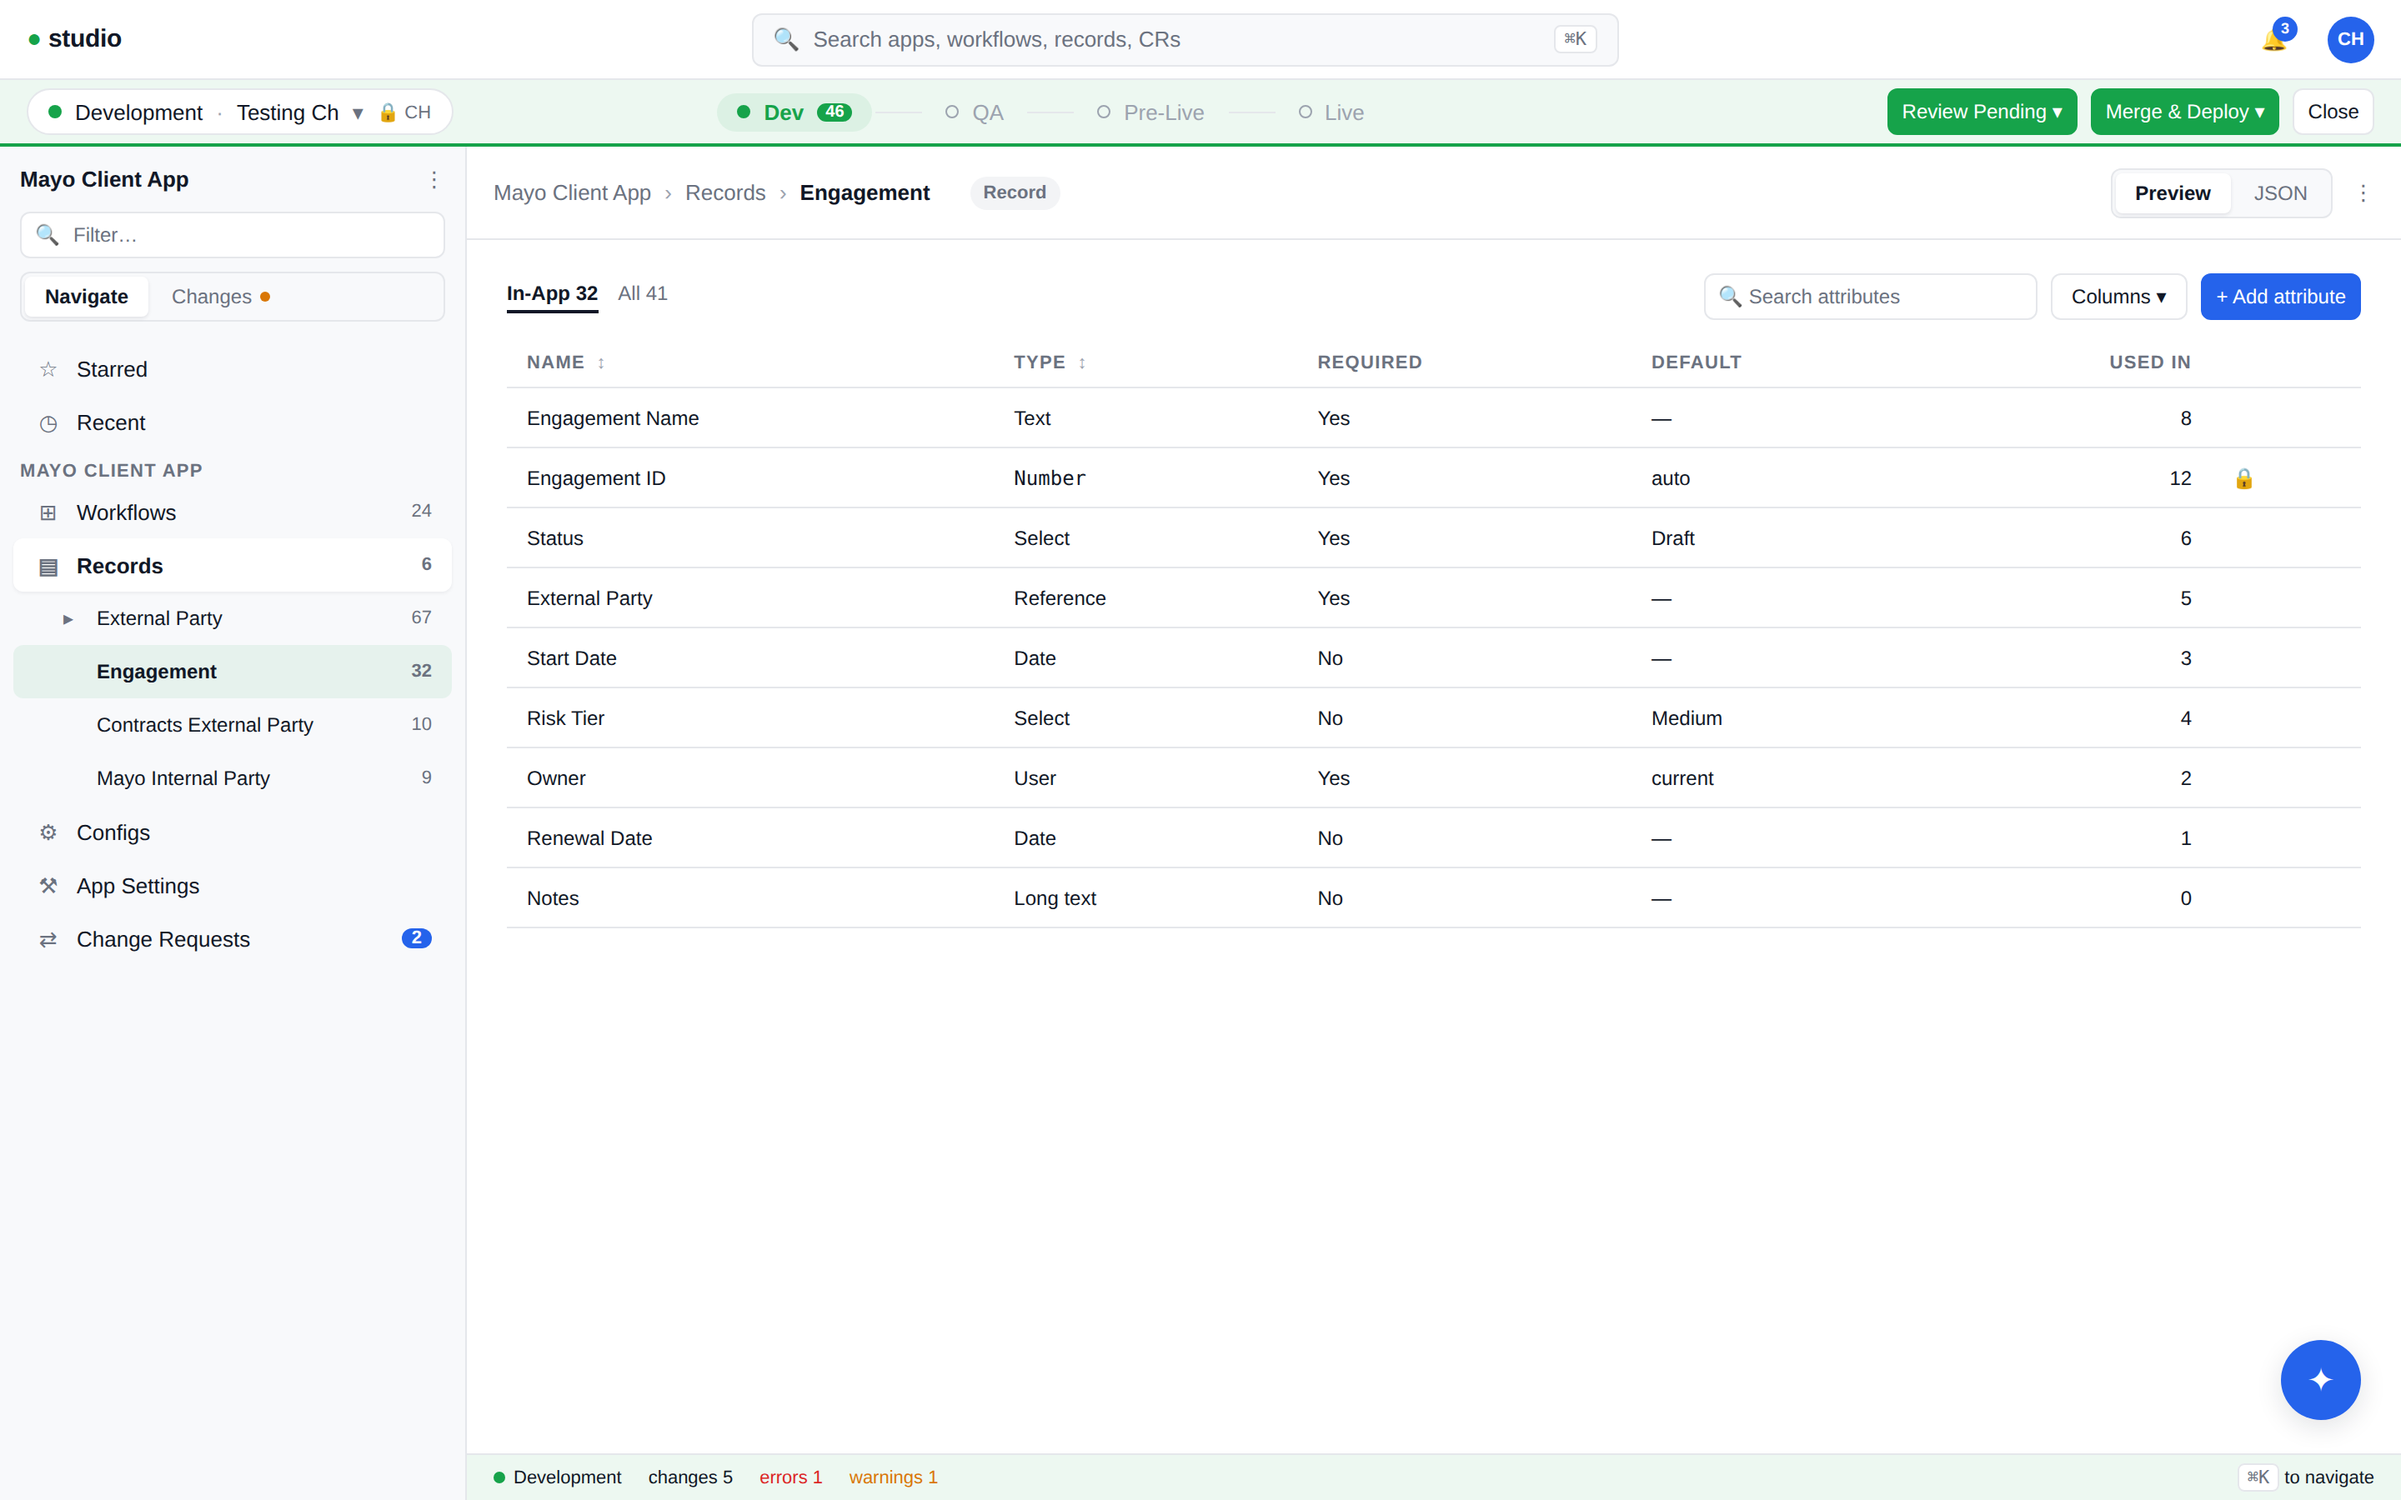
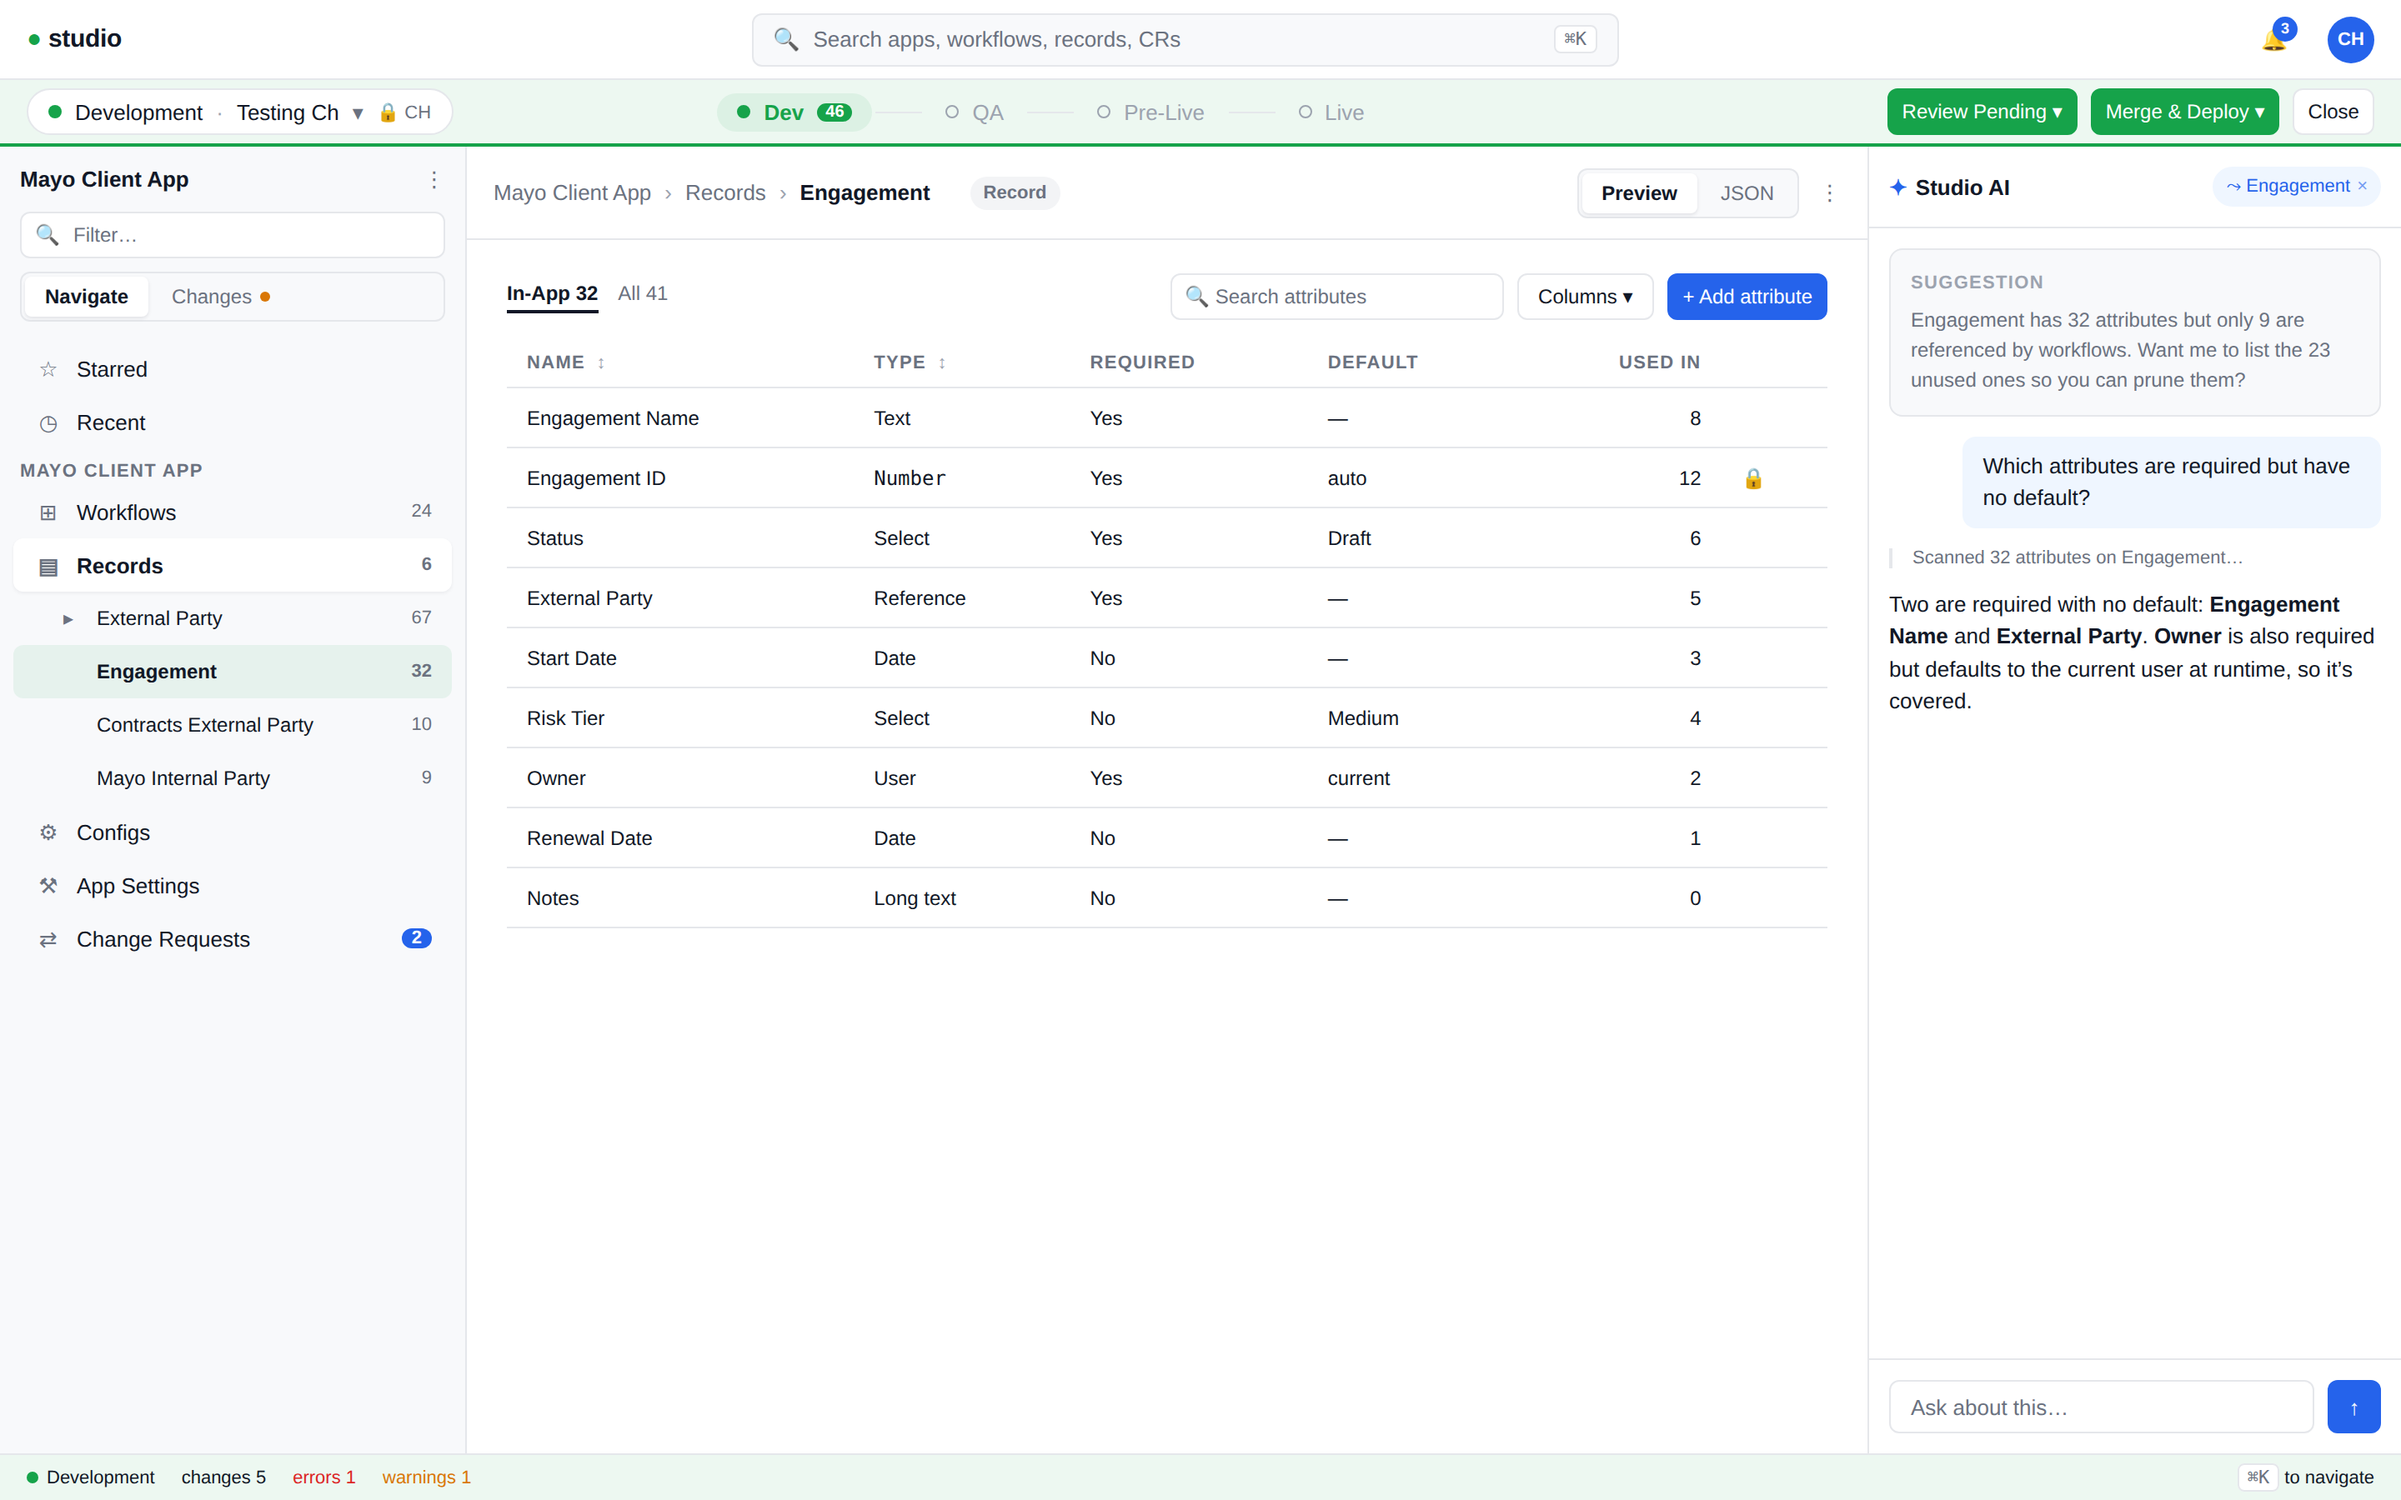
Frames 2 & 3: add persistent Studio AI panel (320px, always-on); status bar full-width

diff --git a/viz/kit.css b/viz/kit.css
@@ -385,6 +385,42 @@ body {
 .ai-input { display: flex; align-items: center; gap: var(--sp-2); padding: var(--sp-3); border-top: 1px solid var(--border); }
 .ai-input .field { flex: 1; height: var(--control-h); border: 1px solid var(--border); border-radius: var(--radius-control); padding: 0 var(--sp-3); display: flex; align-items: center; color: var(--muted); font-size: var(--fs-body); }
 
+/* ---- Persistent AI panel (always-visible variant, no close button) -------- */
+.ai-panel {
+  width: var(--ai-panel-w); min-width: var(--ai-panel-w); background: var(--surface);
+  border-left: 1px solid var(--border); display: flex; flex-direction: column; min-height: 0;
+}
+.ai-panel .aip-head {
+  display: flex; align-items: center; gap: var(--sp-2); padding: var(--sp-3);
+  border-bottom: 1px solid var(--border);
+}
+.ai-panel .aip-title { font-weight: 600; font-size: var(--fs-body); display: flex; align-items: center; gap: 5px; }
+.ai-panel .aip-title .spark { color: var(--blue); }
+.ai-panel .aip-mode { margin-left: auto; }
+.ai-panel .aip-ctx { padding: var(--sp-3) var(--sp-3) 0; }
+.ai-panel .aip-stream { flex: 1; padding: var(--sp-3); display: flex; flex-direction: column; gap: var(--sp-3); overflow: hidden; }
+.ai-panel .aip-suggest {
+  font-size: var(--fs-table); color: var(--muted); line-height: 1.5;
+  background: var(--rail); border: 1px solid var(--border); border-radius: var(--radius-card);
+  padding: var(--sp-3);
+}
+.ai-panel .aip-suggest .lead { color: var(--text-faint); text-transform: uppercase; letter-spacing: var(--track-section); font-size: var(--fs-section); font-weight: var(--fw-section); display: block; margin-bottom: 4px; }
+.ai-panel .aip-msg { font-size: var(--fs-body); line-height: 1.5; }
+.ai-panel .aip-msg.user { align-self: flex-end; background: var(--blue-bg); color: var(--text); padding: var(--sp-2) var(--sp-3); border-radius: var(--radius-card); max-width: 85%; }
+.ai-panel .aip-thought { font-size: var(--fs-meta); color: var(--muted); border-left: 2px solid var(--border); padding-left: var(--sp-3); }
+.ai-panel .aip-input {
+  display: flex; align-items: center; gap: var(--sp-2); padding: var(--sp-3);
+  border-top: 1px solid var(--border);
+}
+.ai-panel .aip-field {
+  flex: 1; height: var(--control-h); border: 1px solid var(--border); border-radius: var(--radius-control);
+  padding: 0 var(--sp-3); display: flex; align-items: center; color: var(--muted); font-size: var(--fs-body);
+}
+.ai-panel .aip-send {
+  width: var(--control-h); height: var(--control-h); border-radius: var(--radius-control);
+  background: var(--blue); color: #fff; display: flex; align-items: center; justify-content: center;
+}
+
 /* ---- Layout row used by interior frames ----------------------------------- */
 .work-row { flex: 1; display: flex; min-height: 0; }
 .canvas { flex: 1; display: flex; flex-direction: column; min-width: 0; background: var(--surface); }

diff --git a/viz/03-workflow-builder.html b/viz/03-workflow-builder.html
@@ -213,19 +213,39 @@
         </div>
       </div>
 
-      <!-- ZONE 7 — Status bar -->
-      <div class="status-bar">
-        <span class="sdot"><span class="d"></span> Development</span>
-        <span>changes 5</span>
-        <span style="color:var(--red)">errors 1</span>
-        <span style="color:var(--amber)">warnings 1</span>
-        <span class="right"><span class="kbd">⌘K</span> to navigate</span>
-      </div>
     </div>
+
+    <!-- ZONE 6 — persistent AI panel (always visible, no close) -->
+    <aside class="ai-panel">
+      <div class="aip-head">
+        <span class="aip-title"><span class="spark">✦</span> Studio AI</span>
+        <span class="ctx-chip" style="margin-left:auto">⤳ Subcontractor Details · Step 1 of 4 <span class="x">×</span></span>
+      </div>
+      <div class="aip-stream">
+        <div class="aip-suggest">
+          <span class="lead">Suggestion</span>
+          This step collects a Tax ID / EIN but has no format validation. Want me to add a rule requiring <b>NN-NNNNNNN</b> before the step can submit?
+        </div>
+        <div class="aip-msg user">Make the Email field required and validate the format.</div>
+        <div class="aip-thought">Editing Step 1 · Subcontractor Details…</div>
+        <div class="aip-msg">Done — added a <b>required</b> + <b>email-format</b> rule to the Email field on Step 1. Created a checkpoint so you can revert.</div>
+        <div class="checkpoint">◦ 02:47 PM Checkpoint created <span class="revert">↩ Revert</span></div>
+      </div>
+      <div class="aip-input">
+        <span class="aip-field">Ask about this…</span>
+        <span class="aip-send">↑</span>
+      </div>
+    </aside>
   </div>
 
-  <!-- ZONE 6 — AI summon affordance -->
-  <div class="fab">✦</div>
+  <!-- ZONE 7 — Status bar (full width) -->
+  <div class="status-bar">
+    <span class="sdot"><span class="d"></span> Development</span>
+    <span>changes 5</span>
+    <span style="color:var(--red)">errors 1</span>
+    <span style="color:var(--amber)">warnings 1</span>
+    <span class="right"><span class="kbd">⌘K</span> to navigate</span>
+  </div>
 </div>
 </body>
 </html>

diff --git a/viz/02-app-interior.html b/viz/02-app-interior.html
@@ -150,19 +150,38 @@
         </table>
       </div>
 
-      <!-- ZONE 7 — Status bar -->
-      <div class="status-bar">
-        <span class="sdot"><span class="d"></span> Development</span>
-        <span>changes 5</span>
-        <span style="color:var(--red)">errors 1</span>
-        <span style="color:var(--amber)">warnings 1</span>
-        <span class="right"><span class="kbd">⌘K</span> to navigate</span>
-      </div>
     </div>
+
+    <!-- ZONE 6 — persistent AI panel (always visible, no close) -->
+    <aside class="ai-panel">
+      <div class="aip-head">
+        <span class="aip-title"><span class="spark">✦</span> Studio AI</span>
+        <span class="ctx-chip" style="margin-left:auto">⤳ Engagement <span class="x">×</span></span>
+      </div>
+      <div class="aip-stream">
+        <div class="aip-suggest">
+          <span class="lead">Suggestion</span>
+          Engagement has 32 attributes but only 9 are referenced by workflows. Want me to list the 23 unused ones so you can prune them?
+        </div>
+        <div class="aip-msg user">Which attributes are required but have no default?</div>
+        <div class="aip-thought">Scanned 32 attributes on Engagement…</div>
+        <div class="aip-msg">Two are required with no default: <b>Engagement Name</b> and <b>External Party</b>. <b>Owner</b> is also required but defaults to the current user at runtime, so it’s covered.</div>
+      </div>
+      <div class="aip-input">
+        <span class="aip-field">Ask about this…</span>
+        <span class="aip-send">↑</span>
+      </div>
+    </aside>
   </div>
 
-  <!-- ZONE 6 — AI summon affordance (sheet closed) -->
-  <div class="fab">✦</div>
+  <!-- ZONE 7 — Status bar (full width) -->
+  <div class="status-bar">
+    <span class="sdot"><span class="d"></span> Development</span>
+    <span>changes 5</span>
+    <span style="color:var(--red)">errors 1</span>
+    <span style="color:var(--amber)">warnings 1</span>
+    <span class="right"><span class="kbd">⌘K</span> to navigate</span>
+  </div>
 
 </div>
 </body>

diff --git a/viz/tokens.css b/viz/tokens.css
@@ -74,6 +74,7 @@
   --sidebar-w:     280px;
   --sidebar-w-min: 56px;
   --ai-sheet-w:    360px;
+  --ai-panel-w:    320px;   /* persistent, always-visible variant */
 
   /* --- Spacing scale --------------------------------------------------- */
   --sp-1: 4px;  --sp-2: 8px;  --sp-3: 12px; --sp-4: 16px;
